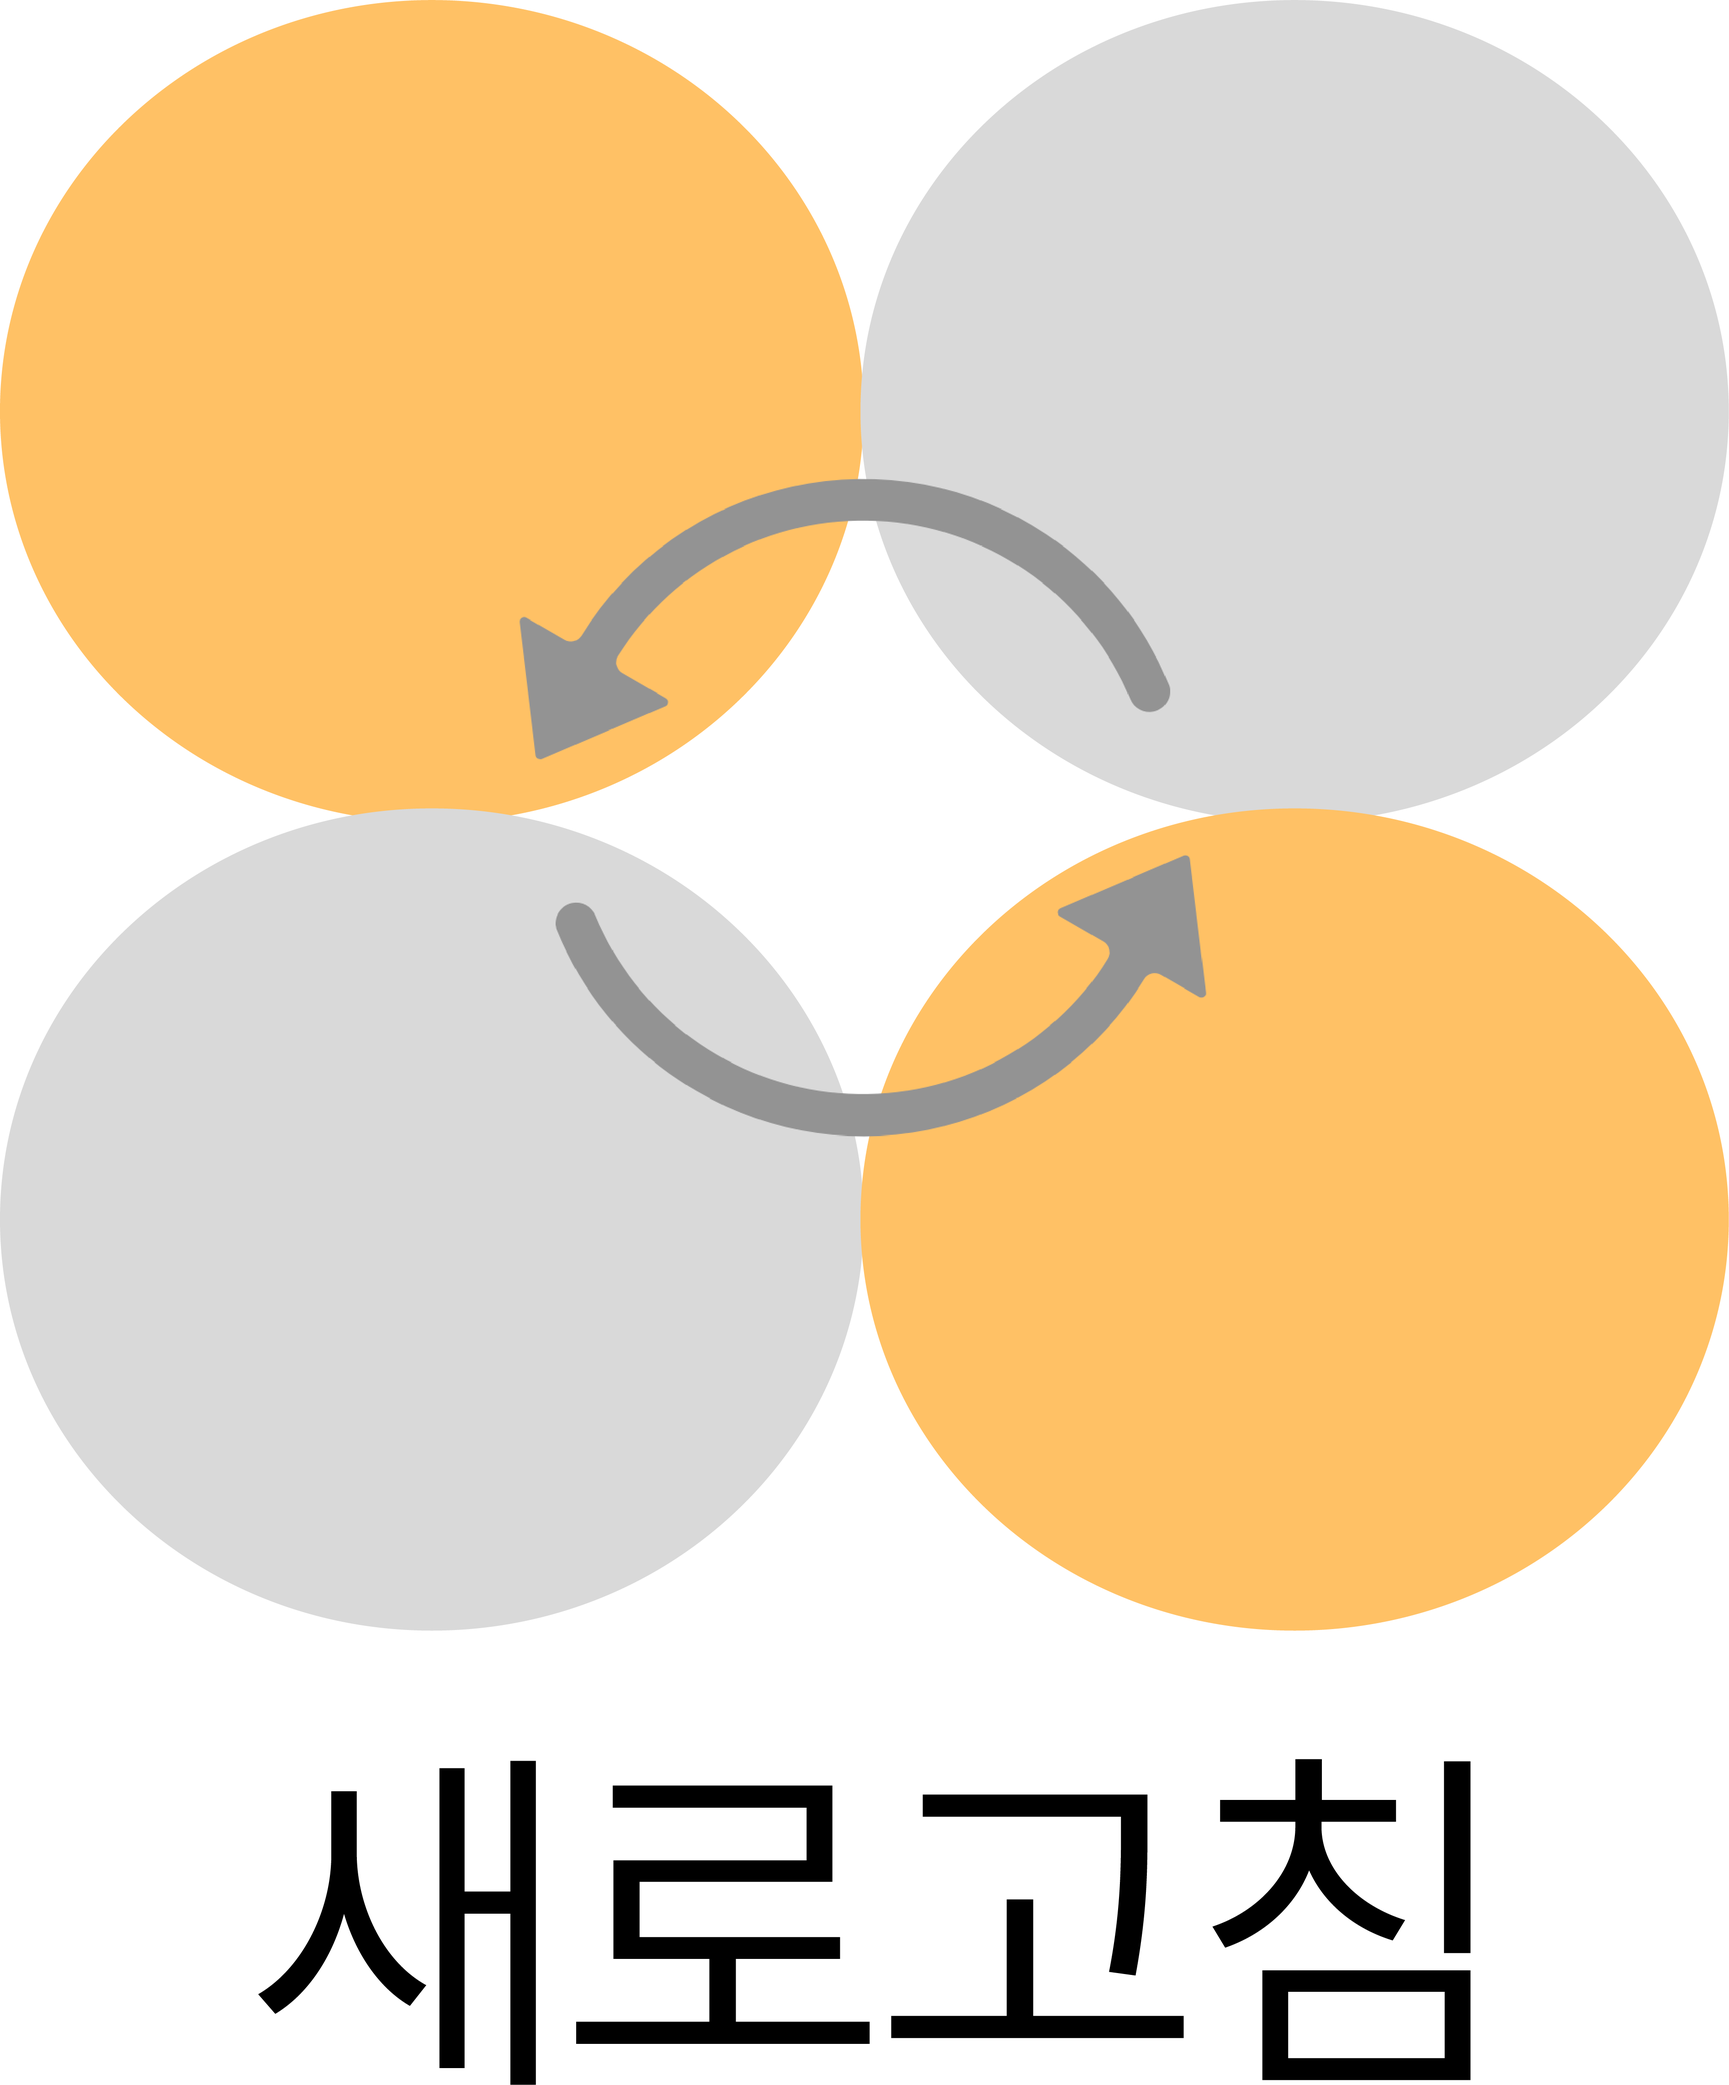
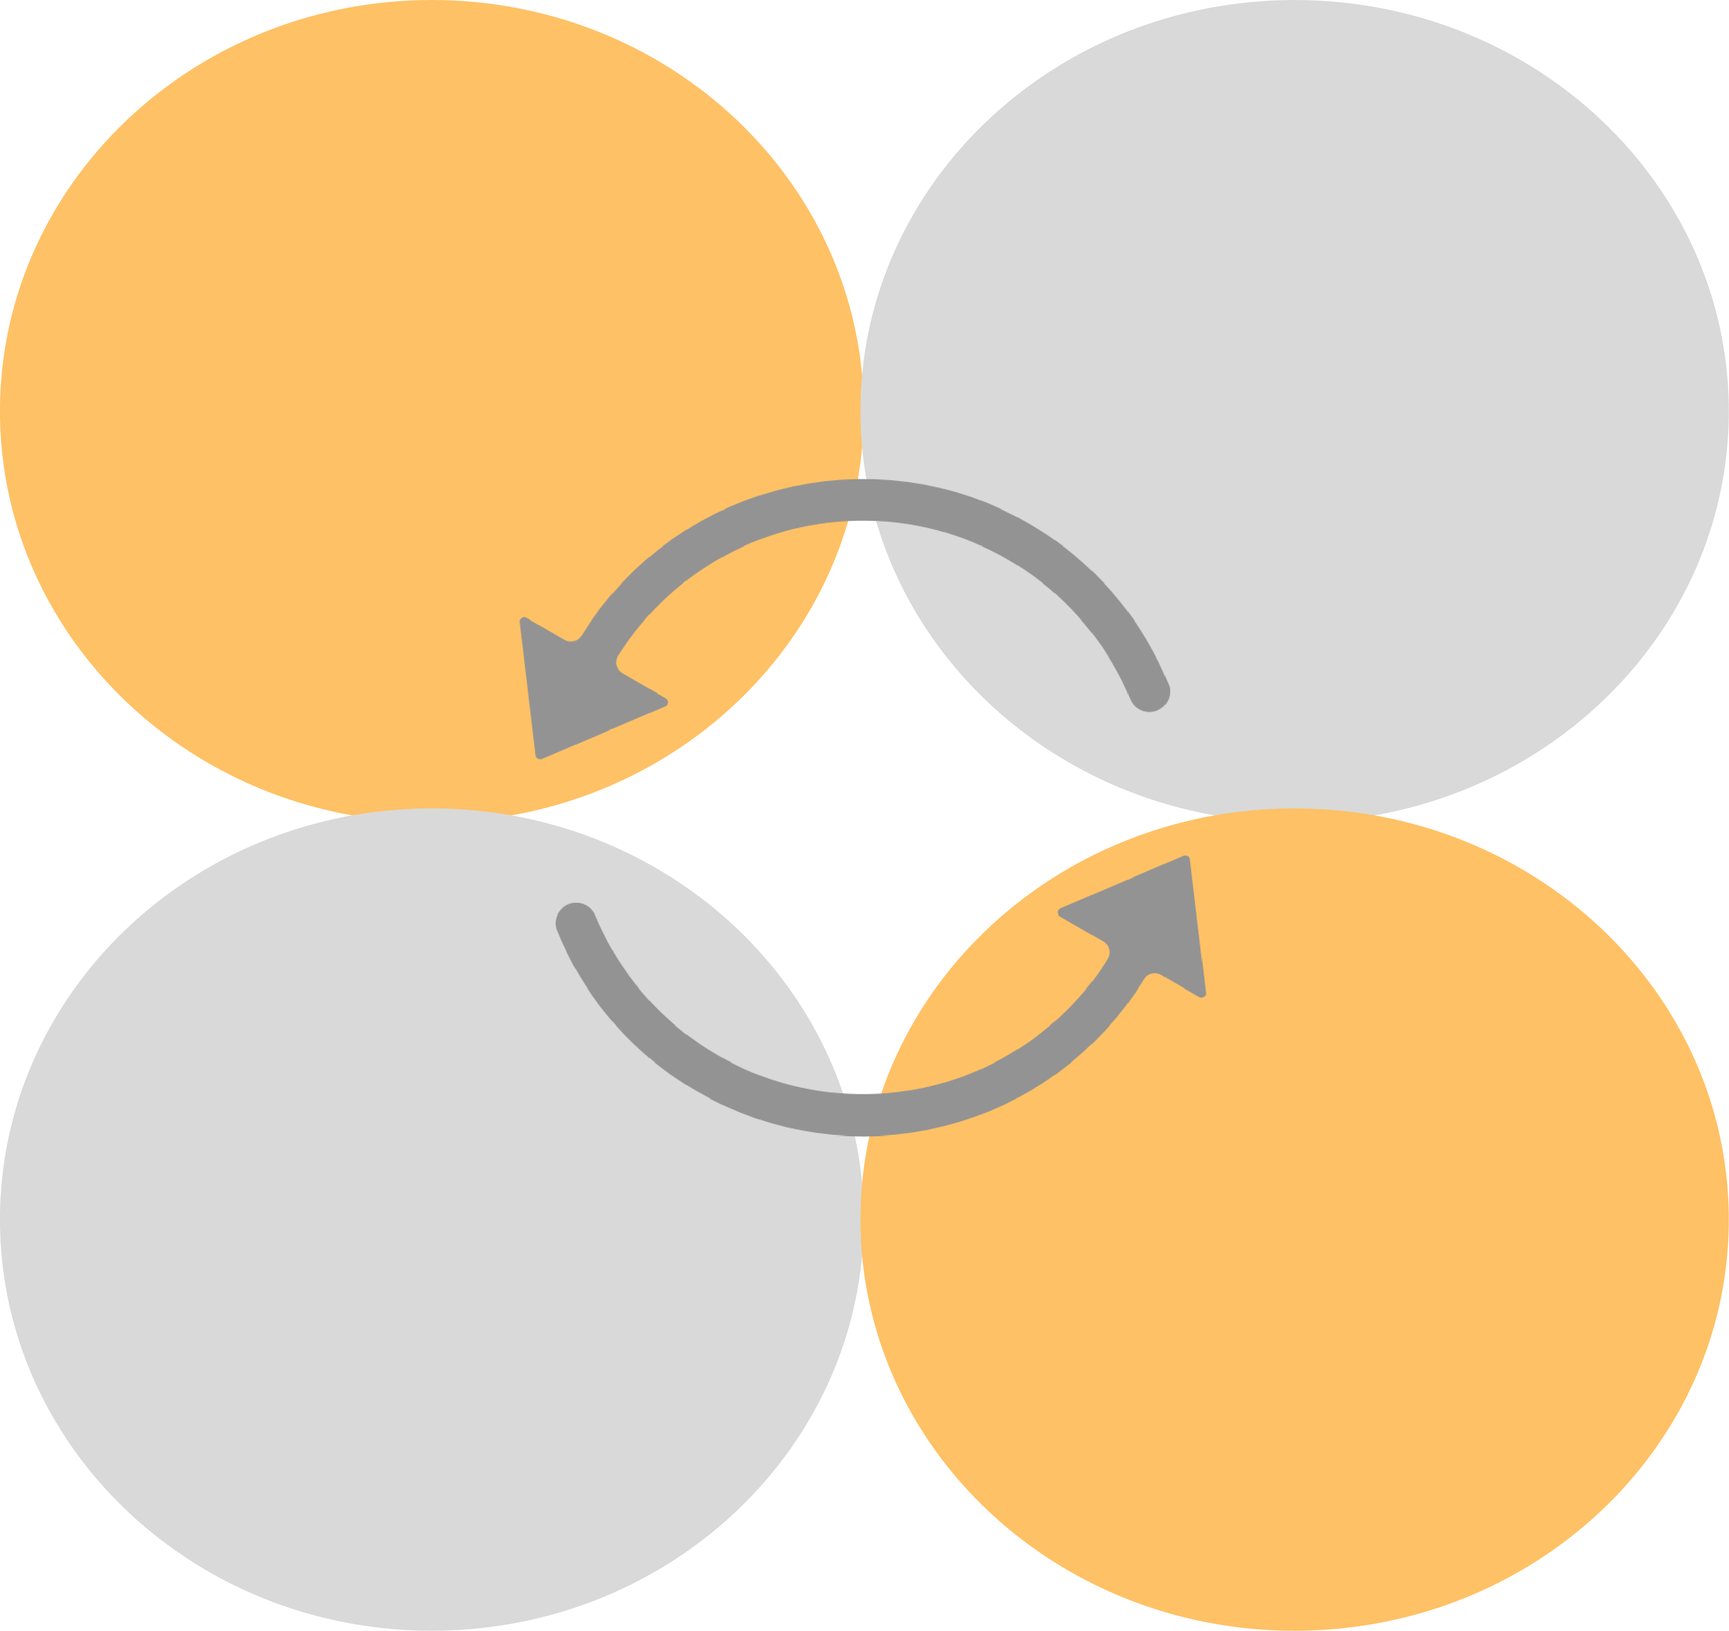
새로고침버튼구현

diff --git a/src/pages/gather/style.jsx b/src/pages/gather/style.jsx
@@ -74,8 +74,13 @@ export const GatheringBox = styled.div`
         margin-bottom: 15px;
         font-family: 'mainFont';
     }
-    
     p:nth-child(4){
+        text-align: center;
+        margin: 0;
+        font-family: 'mainFont';
+        font-size: 105%;
+    }
+    p:nth-child(5){
         margin: 0;
         margin-top: 18px;
         text-align: center;
@@ -86,7 +91,7 @@ export const GatheringBox = styled.div`
         }
     }
 
-    p:nth-child(5){
+    p:nth-child(6){
         font-style: normal;
         font-weight: 400;
         font-size: 105%;

diff --git a/src/pages/gather/body.jsx b/src/pages/gather/body.jsx
@@ -66,7 +66,7 @@ function Body() {
                 </p>
 
                 <Refresh onClick={() => onClick()} id="refreshBtn"></Refresh>
-
+                <p>새로고침</p>
                 <p>
                     지금까지
                     <span> ({numberOfSubmit}/{numberOfMember})</span>
